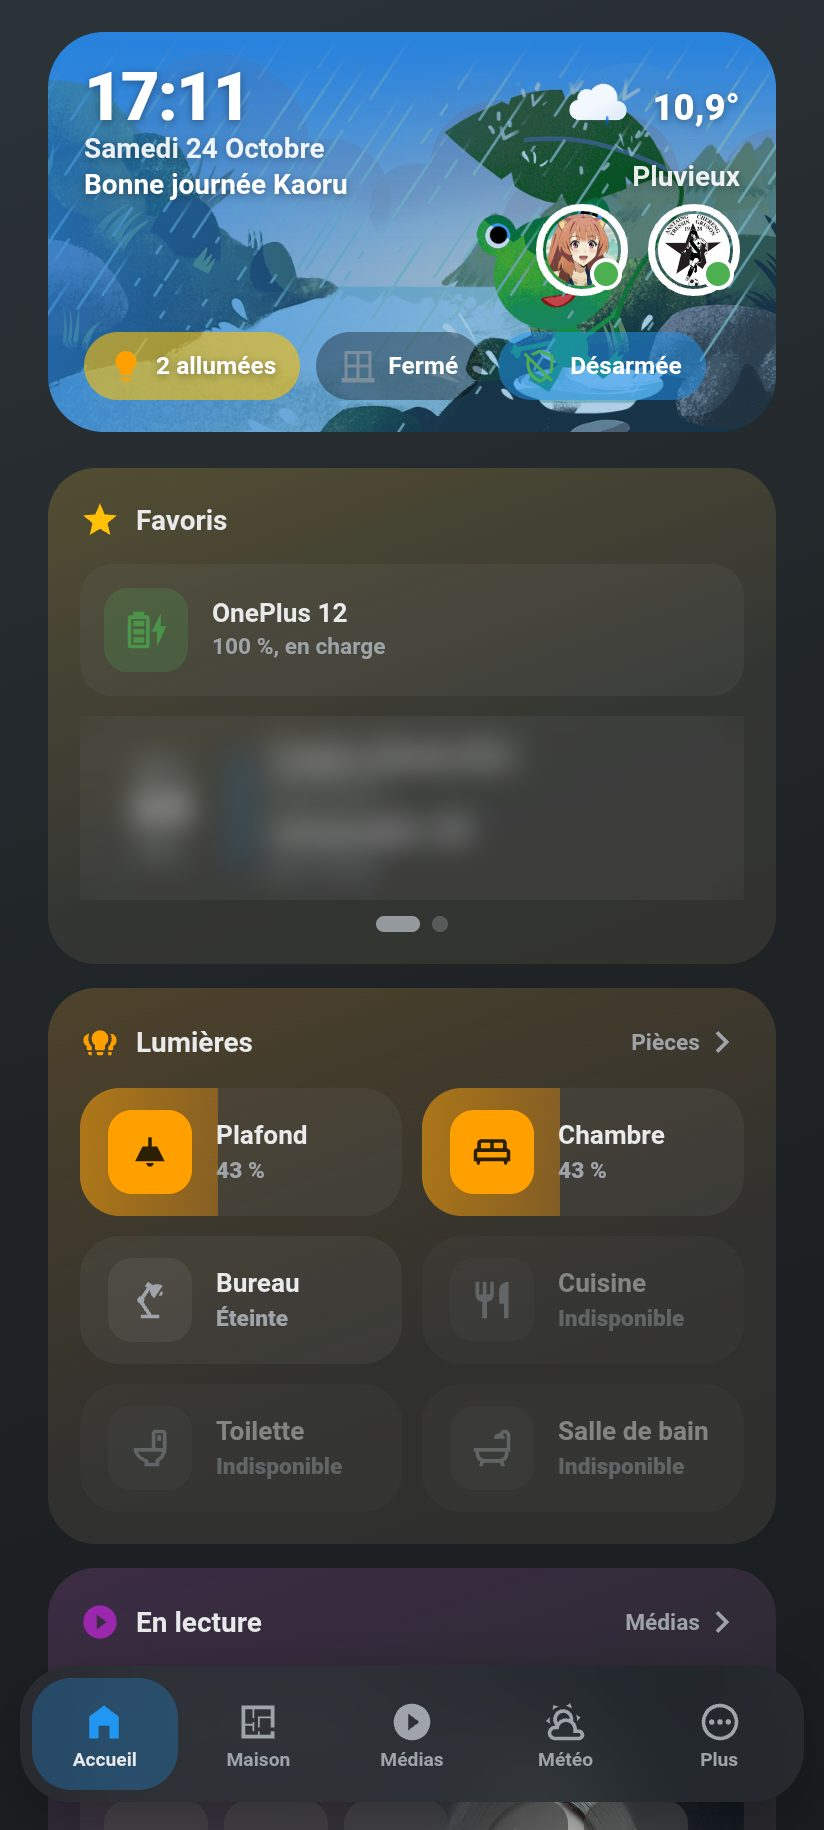
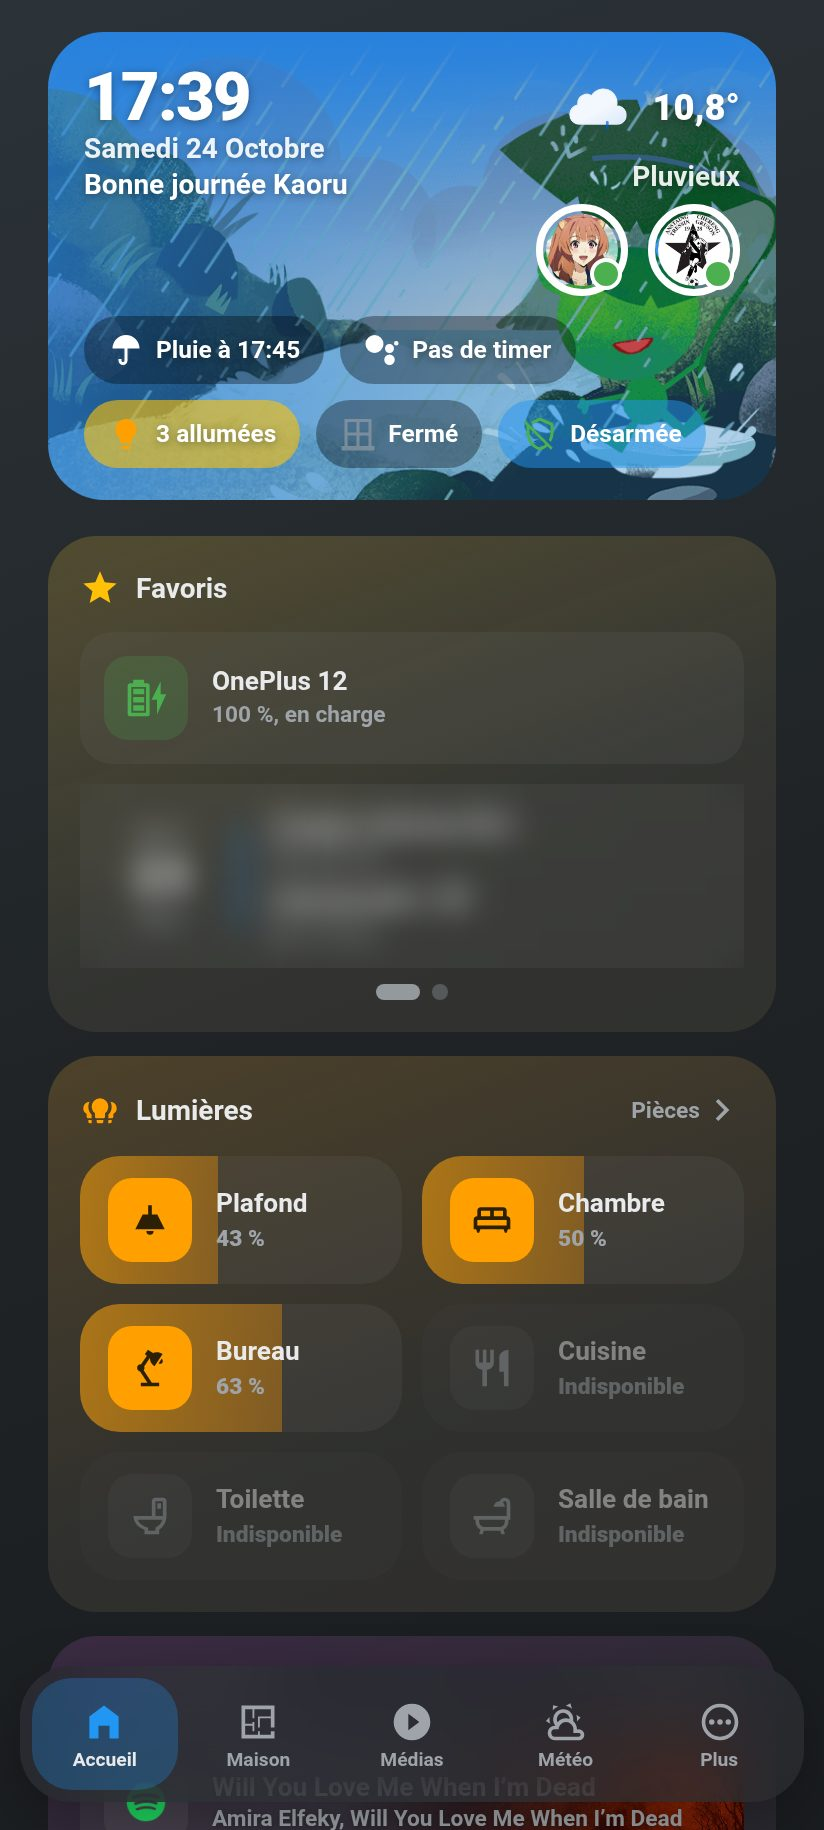
feat(kaoru-home): Google Home timer badge always shown; README shows the flat's plan in 2D and 3D
- The kitchen timer badge is back on the V2 home even without a timer
  ("Pas de timer"), as on the Lovelace dashboard; hidden only while the
  sensor is unavailable.
- README: plan captures (2D and 3D) and the Maison page with its plan;
  the home captures show the timer badge. Only the positions map and the
  agenda stay blurred.

diff --git a/app/src/v2/home.ts b/app/src/v2/home.ts
@@ -505,8 +505,9 @@ export class KhHomeV2 extends LitElement {
         ${!isNaN(indoor)
           ? html`<span class="chip ${badgeClass(temperatureBadge(indoor))}" style=${badgeStyle(temperatureBadge(indoor))}><ha-icon icon="mdi:home"></ha-icon>${formatNumber(indoor)}°</span>`
           : nothing}
-        ${timer && timer !== "Pas de timer"
-          ? html`<span class="chip ${badgeClass(timerBadge(timerOn))}" style=${badgeStyle(timerBadge(timerOn))}><ha-icon icon="mdi:google-assistant"></ha-icon>${timer}</span>`
+        ${timer && !["unavailable", "unknown"].includes(timer)
+          ? html`<span class="chip ${badgeClass(timerBadge(timerOn))}" style=${badgeStyle(timerBadge(timerOn))} aria-label="Minuteur de la cuisine : ${timer}">
+              <ha-icon icon="mdi:google-assistant"></ha-icon>${timer}</span>`
           : nothing}
         ${!isNaN(lights)
           ? html`<a class="chip ${badgeClass(lightsBadge(lights))}" style=${badgeStyle(lightsBadge(lights))} href=${`${this.prefix}/pieces`}>

diff --git a/README.md b/README.md
@@ -31,7 +31,11 @@ Deux panneaux, déclarés en `panel_custom` dans `configuration.yaml` et servis 
 
 <img src="/images/kaoru-home/mobile-accueil.jpg" height="500"> <img src="/images/kaoru-home/mobile-maison.jpg" height="500"> <img src="/images/kaoru-home/mobile-piece.jpg" height="500"> <img src="/images/kaoru-home/mobile-medias.jpg" height="500"> <img src="/images/kaoru-home/mobile-meteo.jpg" height="500"> <img src="/images/kaoru-home/mobile-energie.jpg" height="500"> <img src="/images/kaoru-home/mobile-systeme.jpg" height="500">
 
-Les zones sensibles (plan de l'appartement, carte des positions, agenda) sont floutées sur les captures.
+Le plan de l'appartement, en 2D et en 3D :
+
+<img src="/images/kaoru-home/pc-plan-2d.jpg" width="49%"> <img src="/images/kaoru-home/pc-plan-3d.jpg" width="49%">
+
+La carte des positions et l'agenda sont floutés sur les captures.
 
 ### Maison V2 : les pages
 
